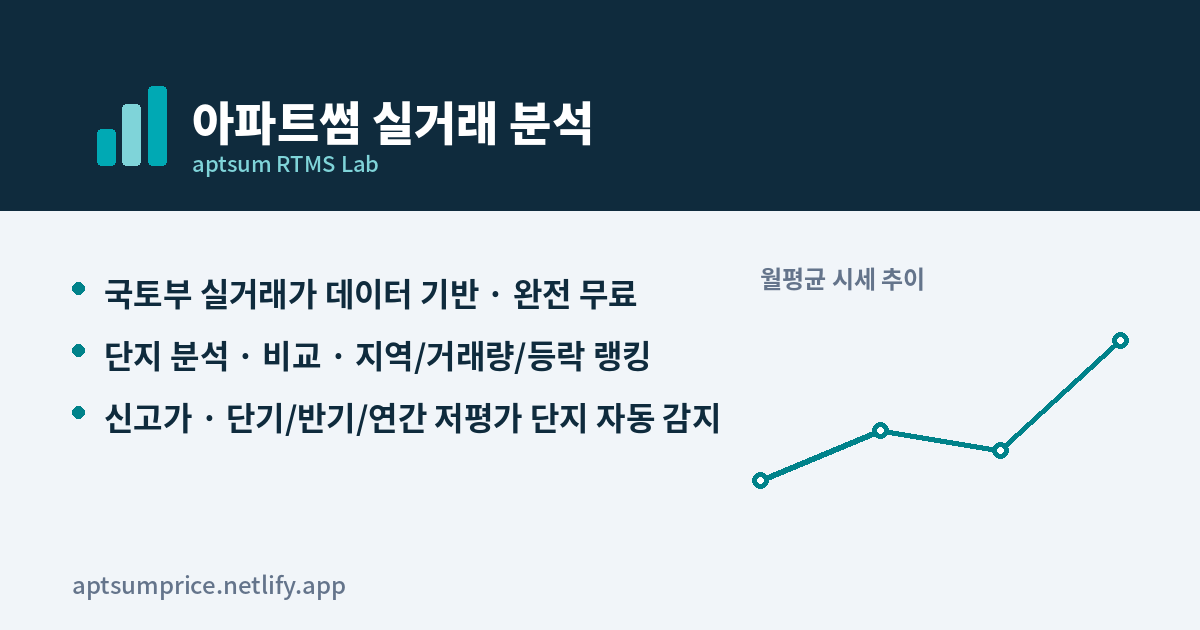
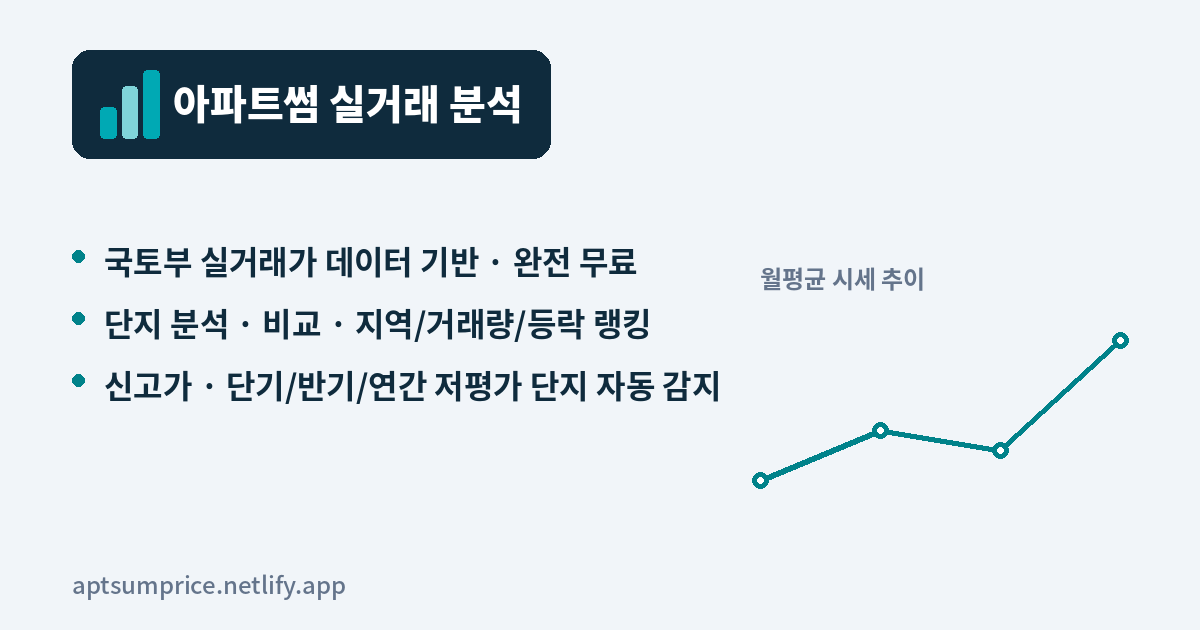
Add files via upload

diff --git a/index.html b/index.html
@@ -32,7 +32,11 @@
   *{margin:0;padding:0;box-sizing:border-box}
   body{font-family:'Noto Sans KR',sans-serif;background:var(--slate-bg);color:var(--ink);line-height:1.6;font-variant-numeric:tabular-nums;min-height:100vh;word-break:keep-all;overflow-wrap:break-word}
   .wrap{max-width:420px;margin:0 auto;padding:0 16px 60px;position:relative}
-  header{padding:16px 14px;text-align:center;background:var(--navy);border-radius:16px;margin:10px 0 14px;box-shadow:0 2px 14px rgba(15,43,61,.18)}
+  header{padding:16px 14px;text-align:center;background:var(--navy);border-radius:16px;margin:10px 0 14px;box-shadow:0 2px 14px rgba(15,43,61,.18);position:relative}
+  .header-share{position:absolute;top:50%;right:14px;transform:translateY(-50%);
+    background:rgba(255,255,255,.14);border:none;border-radius:8px;width:32px;height:32px;
+    color:#fff;font-size:14px;cursor:pointer;display:flex;align-items:center;justify-content:center}
+  .header-share:active{background:rgba(255,255,255,.28)}
   .logo{display:inline-flex;align-items:center;gap:8px;font-weight:900;font-size:19px;color:#fff;letter-spacing:-.5px}
   header p{font-size:11.5px;color:rgba(255,255,255,.7);margin-top:4px}
 
@@ -220,6 +224,19 @@
   .rgft button{flex:1;border:0;border-radius:10px;padding:10px;font-family:inherit;font-size:13px;font-weight:800;cursor:pointer}
   .rgft .ok{background:var(--teal);color:#fff}
   .rgft .cl{background:var(--slate-bg);color:var(--sub)}
+  /* ── 관심 단지 요약 대시보드 (2026.08) ── */
+  #favDashBtn{display:none;width:100%;box-sizing:border-box;margin:2px 0 8px;padding:9px 10px;
+    border:1.5px dashed var(--teal);border-radius:12px;background:var(--teal-light-soft);
+    color:var(--teal-dark);font-family:inherit;font-size:12.5px;font-weight:800;cursor:pointer}
+  .fdcard{border:1.5px solid var(--line);border-radius:12px;padding:10px 12px;margin-bottom:8px;
+    background:#fff;cursor:pointer}
+  .fdcard:active{background:var(--teal-light-soft)}
+  .fdcard-hd{display:flex;align-items:baseline;justify-content:space-between;gap:6px;margin-bottom:4px}
+  .fdcard-hd b{font-size:13.5px;color:var(--navy)}
+  .fdcard-hd .lb{font-size:11px;color:var(--sub);white-space:nowrap}
+  .fdcard-skel{height:64px;background:linear-gradient(90deg,var(--slate-bg) 25%,#eef2f6 37%,var(--slate-bg) 63%);
+    background-size:400% 100%;animation:fdshimmer 1.4s ease infinite;border-radius:12px;margin-bottom:8px}
+  @keyframes fdshimmer{0%{background-position:100% 0}100%{background-position:0 0}}
 </style>
 </head>
 <body>
@@ -262,6 +279,7 @@
       <svg width="20" height="20" viewBox="0 0 20 20"><rect x="2" y="10" width="4" height="8" fill="#00A9B4"/><rect x="8" y="6" width="4" height="12" fill="#7FD4D9"/><rect x="14" y="2" width="4" height="16" fill="#00A9B4"/></svg>
       아파트썸 실거래 분석
     </div>
+    <button class="header-share" onclick="shareCurrent()" title="공유">⤴</button>
   </header>
 
   <div class="tabs">
@@ -330,6 +348,7 @@
 
   <div class="chips" id="favRegions" style="margin:2px 0 6px"></div>
   <div class="chips" id="favs" style="margin:2px 0 6px"></div>
+  <button id="favDashBtn" onclick="openFavDash()">📊 관심 단지 요약 보기</button>
 
   <div class="loading" id="loading"><div class="spinner"></div><div id="loadMsg">실거래 데이터 조회 중…</div></div>
   <div class="error" id="error"></div>
@@ -465,6 +484,70 @@ function renderFavs(){
     const nb = favBadges[favKey(x.lawd,x.name)];
     const badge = nb>0 ? `<span class="nh">신규 ${nb}</span>` : '';
     return `<span class="chip" onclick="favGo('${esc(x.lawd)}','${esc(x.name)}')">★ ${esc(x.name)}<span style="font-weight:400;color:var(--sub)"> ${esc(x.label)}</span>${badge}</span>`;
+  }).join('');
+  const dashBtn = document.getElementById('favDashBtn');
+  if(dashBtn) dashBtn.style.display = favs.length ? '' : 'none';
+}
+
+// ── 관심 단지 요약 대시보드 — 즐겨찾기 단지들을 한 화면에서 최근 시세·등락률로 모아보기 ──
+// 등락 랭킹과 동일한 buildRepRows(대표 평형 최근 2개월 vs 이전 2개월 평균) 로직을 재사용해 일관성 유지.
+// 이미 refreshFavBadges()가 로드 시 각 즐겨찾기의 12개월치를 캐시해두므로 대부분 추가 API 호출 없이 즉시 뜬다.
+function favDashCard(f, inner){
+  return `<div class="fdcard" onclick="closeFavDash();favGo('${esc(f.lawd)}','${esc(f.name)}')">
+    <div class="fdcard-hd"><b>${esc(f.name)}</b><span class="lb">${esc(f.label)}</span></div>
+    <div>${inner}</div>
+  </div>`;
+}
+function openFavDash(){
+  document.getElementById('favDashDim').classList.add('on');
+  document.getElementById('favDashPanel').classList.add('on');
+  renderFavDash();
+}
+function closeFavDash(){
+  document.getElementById('favDashDim').classList.remove('on');
+  document.getElementById('favDashPanel').classList.remove('on');
+}
+async function renderFavDash(){
+  const favs = getFavs();
+  const body = document.getElementById('favDashBody');
+  document.getElementById('favDashTitle').textContent = `관심 단지 요약 (${favs.length}개)`;
+  if(!favs.length){ body.innerHTML = `<div class="rng" style="padding:12px 4px">즐겨찾기한 단지가 없습니다</div>`; return; }
+  body.innerHTML = favs.map(()=>`<div class="fdcard-skel"></div>`).join('');
+  const months = lastMonthsYm(12);
+  const results = await Promise.all(favs.map(async f=>{
+    try{
+      const items = await ensureMonths(f.lawd, 12);
+      const m = matchComplex(items, f.name);
+      if(!m.hits || !m.hits.length) return { ...f, state:'nodata' };
+      const rows = buildRepRows(m.hits, months);
+      if(!rows.length){
+        // 최근 2+2개월 비교가 안 나올 만큼 거래가 뜸한 단지는 등락률 대신 가장 최근 단건 거래만 보여준다
+        const sorted = m.hits.slice().sort((a,b)=>dkey(b).localeCompare(dkey(a)));
+        const last = sorted[0];
+        return { ...f, state:'sparse', last };
+      }
+      const rep = rows.slice().sort((a,b)=> (b.r3n+b.p3n) - (a.r3n+a.p3n))[0];
+      return { ...f, state:'ok', rep };
+    }catch(e){ return { ...f, state:'error' }; }
+  }));
+  body.innerHTML = results.map(r=>{
+    if(r.state==='error') return favDashCard(r, `<span style="color:var(--sub);font-size:12px">조회 실패 · 눌러서 다시 확인</span>`);
+    if(r.state==='nodata') return favDashCard(r, `<span style="color:var(--sub);font-size:12px">최근 12개월 거래 없음</span>`);
+    if(r.state==='sparse'){
+      const last = r.last;
+      return favDashCard(r, last
+        ? `<b style="font-size:15px;color:var(--navy)">${last.amt.toFixed(1)}억</b>
+           <span style="font-size:11px;color:var(--sub);margin-left:6px">${esc(last.py)}평 · ${esc(ymLabel(last.ym))}.${esc(last.d)}</span>
+           <div style="font-size:10.5px;color:var(--sub);margin-top:2px">최근 등락 산출 불가(거래 부족)</div>`
+        : `<span style="color:var(--sub);font-size:12px">거래 데이터 부족</span>`);
+    }
+    const x = r.rep;
+    const dir = x.pct>0?'up':(x.pct<0?'down':'');
+    return favDashCard(r, `
+      <b style="font-size:16px;color:var(--navy)">${x.r3avg.toFixed(1)}억</b>
+      <span class="${dir}" style="font-weight:800;font-size:13px;margin-left:6px">${x.pct>0?'+':''}${x.pct}%</span>
+      <div style="font-size:10.5px;color:var(--sub);margin-top:2px">${esc(x.py)}평 대표 · 최근 2개월 ${x.r3n}건 (이전 ${x.p3avg.toFixed(1)}억→최근 ${x.r3avg.toFixed(1)}억)</div>
+    `);
   }).join('');
 }
 function favGo(lawd, name){
@@ -836,7 +919,6 @@ function setMode(m){
   // 탭 전환 시 이전 탭에서 아직 응답을 기다리는 중인 검색이 있다면 무효화 —
   // 안 그러면 그 결과가 늦게 도착했을 때 지금 막 전환한 새 탭 화면을 덮어쓸 수 있음.
   searchToken++;
-  const prevMode = mode;
   mode = m;
   document.getElementById('tabC').classList.toggle('on', m==='complex');
   document.getElementById('tabCmp').classList.toggle('on', m==='compare');
@@ -861,22 +943,13 @@ function setMode(m){
     const first = lawdsOfScope(sel.value)[0];
     if(first) sel.value = first.lawd;
   }
-  // 저평가(단기/반기/연간)로 "새로 전환해 들어올 때"는 항상 지역이 하나도 선택 안 된 상태로 시작한다(2026.07 요청) —
-  // 다른 탭에서 검색했던 지역이 그대로 남아있으면 사용자가 고르지도 않은 지역이 미리 채워진 것처럼 보였음.
-  // 단, 이미 그 탭에 있는 상태에서 탭 버튼을 다시 눌렀을 때(prevMode===m)는 방금 고른 선택을 지우면 안 되므로 제외.
+  // 모든 탭이 선택 지역을 공유·고정 기억한다(2026.08 변경) — 탭을 넘나들어도 regionSel/sel.value를 그대로 유지.
+  // 저평가(단기/반기/연간)만 상한이 낮으므로(5개) 넘어오는 칩이 많으면 앞에서부터만 잘라서 맞춘다.
   const undervalueModes = ['shortval','peak','longpeak','newhigh'];
-  if(prevMode !== m && undervalueModes.includes(m)){
-    regionSel = []; saveRegionSel();
-    sel.value = '';
-  } else {
-    // 이미 그 탭에 있던 상태(칩이 지역 랭킹 등에서 넘어와 상한을 초과한 경우 등)는 기존처럼 앞에서부터만 자른다
-    const maxNow = regionSelMax();
-    if(regionSel.length > maxNow){ regionSel = regionSel.slice(0, maxNow); saveRegionSel(); }
-    // 저평가 탭(빈 상태)에서 다른 탭으로 나갈 때는 그 빈 값이 그대로 남으면 안 됨 — 기억된 지역이 있으면 복원, 없으면 빈 상태 유지
-    // (기본 지역을 임의로 지정하지 않음 — 특정 구를 아무렇지 않게 기본값 취급하는 게 부적절하다는 피드백으로 삭제)
-    if(!undervalueModes.includes(m) && !sel.value){
-      sel.value = (lastRegionPref && [...sel.options].some(o=>o.value===lastRegionPref)) ? lastRegionPref : '';
-    }
+  const maxNow = regionSelMax();
+  if(regionSel.length > maxNow){ regionSel = regionSel.slice(0, maxNow); saveRegionSel(); }
+  if(!sel.value){
+    sel.value = (lastRegionPref && [...sel.options].some(o=>o.value===lastRegionPref)) ? lastRegionPref : '';
   }
   renderRegionChips();
   document.getElementById('pyBand').style.display = (m==='region'||m==='volume'||m==='updown') ? '' : 'none';
@@ -902,7 +975,11 @@ function setMode(m){
 }
 
 function regionSelectHTML(){
-  return REGIONS.map(([g,arr])=>`<optgroup label="${g}">${arr.map(([n,c])=>`<option value="${c}">${n}</option>`).join('')}</optgroup>`).join('');
+  // 메인 지역 select(#lawd)에는 빈 값용 플레이스홀더 옵션("지역을 선택하세요")이 있는데
+  // 비교 탭 행의 select는 REGIONS만으로 만들어져 그 옵션이 없었음 — sel.value가 ''일 때
+  // 매칭되는 옵션이 없어 화면에 아무 텍스트도 안 뜨는 버그였음(2026.08 수정).
+  return `<option value="">지역을 선택하세요</option>` +
+    REGIONS.map(([g,arr])=>`<optgroup label="${g}">${arr.map(([n,c])=>`<option value="${c}">${n}</option>`).join('')}</optgroup>`).join('');
 }
 function addCmpRow(){
   const rows = document.querySelectorAll('.cmp-row');
@@ -3176,6 +3253,16 @@ function renderLongPeak(d){
   <div class="rgft" id="rgFt" style="display:none">
     <button type="button" class="cl" onclick="clearRegions();buildRegionPicker()">전체 해제</button>
     <button type="button" class="ok" onclick="closeRegionPicker()">완료</button>
+  </div>
+</div>
+<div class="rgdim" id="favDashDim" onclick="closeFavDash()"></div>
+<div class="rgpanel" id="favDashPanel" role="dialog" aria-label="관심 단지 요약">
+  <div class="rghd">
+    <h4 id="favDashTitle">관심 단지 요약</h4>
+  </div>
+  <div class="rgbody" id="favDashBody"></div>
+  <div class="rgft">
+    <button type="button" class="cl" onclick="closeFavDash()">닫기</button>
   </div>
 </div>
 </body>

diff --git a/assets/gen.py b/assets/gen.py
@@ -51,21 +51,42 @@ im = Image.open("apple-touch-icon.png").convert("RGB")
 im.save("apple-touch-icon.png")
 
 # ── OG share image 1200x630 ──
+# 2026.08: 상단을 전체 폭 네이비 띠에서 앱 실제 헤더와 동일한 "알약형 배지" 로고로 교체.
+# 부제("aptsum RTMS Lab")는 실제 앱 헤더에 없는 문구라 제거 — 로고 양식·내용을 현재 앱 헤더와 일치시킴.
 W, H = 1200, 630
 img = Image.new("RGB", (W, H), SLATE)
 d = ImageDraw.Draw(img)
 
-# navy header band
-d.rectangle([0, 0, W, 210], fill=NAVY)
+MX = 72  # 좌측 여백 (본문 요소들과 동일한 기준선)
 
-# logo mark (top-left of band)
-lx, ly, s = 72, 68, 3.6
+# 배지 내부 로고 아이콘 + 텍스트 크기 측정
+badge_font = font(FONT_BLACK, 40)
+badge_text = "아파트썸 실거래 분석"
+tb = d.textbbox((0, 0), badge_text, font=badge_font)
+text_w, text_h = tb[2] - tb[0], tb[3] - tb[1]
+
+icon_s = 3.1  # 32-grid 아이콘 스케일
+icon_w = (26 - 7) * icon_s
+icon_h = (27 - 5) * icon_s
+
+pad_x, pad_y, gap = 28, 20, 14
+badge_h = icon_h + pad_y * 2
+badge_w = pad_x + icon_w + gap + text_w + pad_x
+badge_x0, badge_y0 = MX, 50
+badge_x1, badge_y1 = badge_x0 + badge_w, badge_y0 + badge_h
+
+d.rounded_rectangle([badge_x0, badge_y0, badge_x1, badge_y1], radius=18, fill=NAVY)
+
+lx = badge_x0 + pad_x
+ly = badge_y0 + (badge_h - icon_h) / 2
 bars = [(7, 17, 12, 27, LOGO_TEAL), (14, 10, 19, 27, LOGO_TEAL_LIGHT), (21, 5, 26, 27, LOGO_TEAL)]
 for x0, y0, x1, y1, c in bars:
-    d.rounded_rectangle([lx + x0 * s, ly + y0 * s, lx + x1 * s, ly + y1 * s], radius=4, fill=c)
+    d.rounded_rectangle([lx + (x0 - 7) * icon_s, ly + (y0 - 5) * icon_s,
+                          lx + (x1 - 7) * icon_s, ly + (y1 - 5) * icon_s], radius=4, fill=c)
 
-d.text((lx + 120, ly + 18), "아파트썸 실거래 분석", font=font(FONT_BLACK, 46), fill=WHITE)
-d.text((lx + 120, ly + 78), "aptsum RTMS Lab", font=font(FONT_MED, 22), fill=LOGO_TEAL_LIGHT)
+tx = lx + icon_w + gap
+ty = badge_y0 + (badge_h - text_h) / 2 - tb[1]
+d.text((tx, ty), badge_text, font=badge_font, fill=WHITE)
 
 # body: value props (2026.07 — 탭이 9개로 늘어난 현재 구성에 맞게 갱신)
 items = [
@@ -73,21 +94,21 @@ items = [
     "단지 분석 · 비교 · 지역/거래량/등락 랭킹",
     "신고가 · 단기/반기/연간 저평가 단지 자동 감지",
 ]
-y = 268
+y = badge_y1 + 78
 for line in items:
-    d.ellipse([72, y + 14, 84, y + 26], fill=TEAL)
-    d.text((104, y), line, font=font(FONT_BOLD, 32), fill=NAVY)
+    d.ellipse([MX, y + 14, MX + 12, y + 26], fill=TEAL)
+    d.text((MX + 32, y), line, font=font(FONT_BOLD, 32), fill=NAVY)
     y += 62
 
 # mini chart motif (bottom-right) — simple upward line with dots
-cx0, cy0, cx1, cy1 = 760, 300, 1120, 520
+cx0, cy0 = 760, 300
 pts = [(cx0, 480), (cx0 + 120, 430), (cx0 + 240, 450), (cx0 + 360, 340)]
 d.line(pts, fill=TEAL, width=6, joint="curve")
 for p in pts:
     d.ellipse([p[0] - 8, p[1] - 8, p[0] + 8, p[1] + 8], fill=WHITE, outline=TEAL, width=5)
 d.text((cx0, cy0 - 40), "월평균 시세 추이", font=font(FONT_BOLD, 24), fill=SUB)
 
-d.text((72, H - 64), "aptsumprice.netlify.app", font=font(FONT_MED, 24), fill=SUB)
+d.text((MX, H - 64), "aptsumprice.netlify.app", font=font(FONT_MED, 24), fill=SUB)
 
 img.save("og-image.png")
 print("done")

diff --git a/README.md b/README.md
@@ -55,7 +55,7 @@ Actions 탭 → "실거래 데이터 배치 수집" → Run workflow → `months
 - **세대수 캐시 무효화 누락 수정(HH_CACHE_VER 추가)**(2026.07, v119): v108에서 `matchKapt()` 로직 자체는 고쳤는데, 세대수는 브라우저 localStorage에 180일, `hhcnt.mjs`의 GET 엔드포인트는 Netlify CDN에 90일(durable)로 캐시돼 있어서 배포 후에도 예전(오매칭) 결과가 캐시에서 그대로 재사용되는 문제가 있었음(두산아파트가 v108 배포 후에도 계속 560세대로 보이던 원인) — 메인 실거래 데이터의 `CACHE_VER`와 동일한 패턴으로 `HH_CACHE_VER`를 신설해 localStorage 키(`apcHH:2`)와 GET 요청 쿼리(`&v=2`)에 반영, 매칭 로직이 바뀔 때마다 이 값을 올려 캐시를 강제로 무효화하도록 함
 - **임대 오매칭 재수정 — 정확일치 단락(short-circuit) 버그**(2026.07, v120): v119까지 캐시를 지웠는데도 두산아파트가 여전히 560세대로 나온 진짜 원인 — v108의 "임대 배제" 로직이 부분일치(cand) 단계에만 들어가 있었고, `matchKapt()`가 정확 일치(exact)를 그보다 먼저 확인해서 바로 return해버렸음. 만약 K-apt에 임대 동이 검색어와 정확히 같은 이름으로 등록돼 있으면(예: "두산") 임대 배제 로직까지 가지도 못하고 그 시점에 확정돼버려 v108 수정이 사실상 무효였음 — 정확/부분일치를 가리지 않고 후보를 전부 모은 뒤 임대부터 배제하고, 그 다음에 정확 일치를 우선하도록 순서를 바꿈. 후보가 여전히 애매하면(2건 이상) Netlify 함수 로그에 후보 이름 목록을 남기도록 디버그 로그도 추가(`HH_CACHE_VER` 3으로 재상향)
 - **지역랭킹→단지분석 이동 시 스크롤 위치 미초기화 버그 수정**(2026.07, v121): 지역 랭킹처럼 긴 목록을 한참 스크롤한 상태에서 단지명을 클릭(`quick()`)하면, 내용은 단지분석으로 정상적으로 바뀌는데 스크롤 위치는 그대로 유지돼서 화면이 차트 중간 등 페이지 아래쪽부터 보이는 문제가 있었음 — 그 위에 이미 렌더링된 "평형별 요약표"가 화면 밖(스크롤 위)에 있다 보니 마치 안 나오는 것처럼 보였음. `search()`가 새 결과를 그린 직후 `window.scrollTo(0,0)`으로 스크롤을 맨 위로 되돌리도록 수정(단, 뒤로가기 복원(`restoreView()`)은 사용자가 보던 위치로 돌아가는 게 자연스러운 동작이라 그대로 둠)
-- **"단기 저평가" 탭 분리**(2026.07, v122): 그동안 등락 랭킹 화면 안에 "상승률/하락률 상위"와 함께 얹혀 있던 "단기 저평가 단지" 섹션을 별도 공개 탭(등락 랭킹 옆)으로 분리 — 분기/연간 저평가처럼 잠금탭은 아니고 기존과 동일하게 누구나 바로 보임. `analyzeUpDown()`에서 divergence 계산을 떼어내 `analyzeShortUndervalue()`로 독립시켰고, 등락 랭킹은 이제 상승/하락 상위만 표시. 두 탭 다 API 조회(24개월 공용 캐시)·평형(20~39평 고정)·필터 UI 숨김 등 기존 동작은 그대로 유지
+- **"단기 저평가" 탭 분리**(2026.07, v122): 그동안 등락 랭킹 화면 안에 "상승률/하락률 상위"와 함께 얹혀 있던 "단기 저평가 단지" 섹션을 별도 공개 탭(등락 랭킹 옆)으로 분리 — 분기/연간 저평가처럼 잠금탭은 아니고 기존과 동일하게 누구나 바로 보임. `analyzeUpDown()`에서 divergence 계산을 떼어내 `analyzeShortUndervalue()`로 독립시켰고, 등락 랭킹은 이제 상승/하락 상위만 표시. 두 탭 다 API 조회(24개월 공용 캐시)·평형(20~37평 고정)·필터 UI 숨김 등 기존 동작은 그대로 유지
 - **분기·연간 저평가 잠금 해제**(2026.07, v123): 로고 5클릭+비밀번호로 잠겨 있던 두 탭을 다른 랭킹 탭들과 동일하게 항상 노출되는 공개 탭으로 전환. 탭 버튼의 `display:none` 제거, 비밀번호 모달·`logoClick()`/`submitPeakPw()` 등 잠금 관련 코드 전부 삭제, URL 공유·공유 링크 진입 시 의도적으로 막아뒀던 예외 처리도 제거해 다른 탭과 동일하게 정상 동작하도록 함
 - **탭 UI 리디자인**(2026.07, v124): 회색 박스 안에 흰 알약이 꽉 채워진 그리드형 세그먼트 컨트롤이 올드해 보인다는 피드백으로 전면 교체 — 아이콘 + 라벨의 칩(pill) 스타일로 변경, 각 탭에 의미를 살린 모노라인 SVG 아이콘(돋보기/비교 막대/지도 핀/불꽃/막대그래프/등락 화살표/퍼센트 기호 등) 추가. 활성 탭은 브랜드 틸 색 배경+흰 글씨+그림자로 강조, 비활성 탭은 흰 배경+얇은 테두리의 고스트 스타일
 - **탭을 한 화면에 밀도 있게**(2026.07, v125): v124는 그룹별 가로 스크롤 방식이었는데, 스크롤 없이 한눈에 다 보이는 게 낫다는 피드백으로 변경 — `flex-wrap`으로 9개 탭이 3열×3행으로 화면 안에 전부 들어오도록 수정(칩 패딩·폰트 축소로 밀도 확보). 그룹 구분선은 줄바꿈과 부딪혀서 제거하고 아이콘+칩 스타일 자체는 그대로 유지
@@ -63,13 +63,13 @@ Actions 탭 → "실거래 데이터 배치 수집" → Run workflow → `months
   1. **`lastMonthsYm()` 날짜 중복 버그**: 매달 29~31일에 `Date.setMonth()`를 day=31 상태로 반복 호출하면, 다음 달 일수가 31일보다 적을 때 그 다음 달로 자동 이월돼버려 같은 달이 중복 생성됨(예: 7/31에 `yms=...,202607,202607`처럼 7월이 두 번 나옴 — 로그에서 정확히 이 패턴 확인). 1~12월 말일 전부 재현 테스트 후 수정(첫 반복 이후 day를 1로 고정해 이월 자체를 차단)
   2. **콜드 캐시 상태에서 응답 지연 → 클라이언트 요청 취소(HTTP 499) 반복**: 로그의 응답시간(조각당 1~5초)과 상태코드(499=클라이언트가 응답 기다리다 취소)로 볼 때, 신고가 탭이 5년치(최대 6개 조각)를 처음 조회하는 지역에서 시간이 오래 걸려 사용자가 답답해서 새로고침·재시도를 반복 → 매번 이전 요청이 취소되는 악순환이었을 가능성이 유력. **신고가 조회 기간을 5년→3년(60개월→36개월, 조각 4개)으로 축소**해 콜드 캐시 부하를 줄이고, `CHUNK_CONCURRENCY`도 3→4로 올려 신고가의 4개 조각이 한 라운드에 다 나가도록 조정(다른 탭의 최대 3개 조각도 여전히 1라운드)
 - **단기 저평가 화면 정리**(2026.07, v128): 탭 이름이 이미 "단기 저평가"라 화면 안에 또 있던 "단기 저평가 단지" 태그(청록 배경 헤더 바)를 중복으로 보고 제거. 대신 설명 문구 두 줄(비교군 로직 설명 · 매매 기준/평형 안내)을 청록색(`--teal-dark`)으로 강조 표시
-- **README 오탈자 수정**(2026.07, v129): 연간 저평가는 코드상 이미 층수 제한이 없는데(주석에도 명시돼 있었음) README에 "5층 이상"이라고 잘못 적혀 있던 부분 수정, 평형 범위도 실제 코드값인 "20~39평"으로 정정(README엔 "18~42평"으로 잘못 적혀 있었음)
+- **README 오탈자 수정**(2026.07, v129): 연간 저평가는 코드상 이미 층수 제한이 없는데(주석에도 명시돼 있었음) README에 "5층 이상"이라고 잘못 적혀 있던 부분 수정, 평형 범위도 실제 코드값인 "20~37평"으로 정정(README엔 "18~42평"으로 잘못 적혀 있었음)
 - **"분기 저평가"→"반기 저평가" 개명 + 층수 제한 삭제**(2026.07, v130): 탭 이름을 "반기 저평가"로 바꾸면서 실제 로직도 이름에 맞게 3개월 vs 3개월 비교에서 **6개월 vs 6개월** 비교로 변경(`buildPeakRows()`의 구간 분리 기준을 `months.slice(0,3)/(3,6)`→`(0,6)/(6,12)`로, `neededMN`도 6→12로 수정). 5층 이상만 집계하던 층수 제한도 삭제해 연간 저평가와 동일하게 전 층 포함으로 통일 — 단, 이 변경으로 층 정보 없는 분양권 일부가 더 이상 자동 제외되지 않아 표본에 새로 포함될 수 있음
 - **저평가 3탭 아이콘 구분**(2026.07, v132): 단기·반기·연간 저평가 탭이 전부 퍼센트 기호로 똑같은 아이콘을 쓰고 있어 9개 탭 중 셋이 시각적으로 구분이 안 됐음 — 단기는 시계, 반기는 반원(半), 연간은 달력 아이콘으로 교체
 - **신고가 탭 아이콘 모양 깨짐 수정**(2026.07, v133): 처음에 손으로 그린 불꽃(flame) SVG path 좌표가 잘못돼서 실제로는 알아볼 수 없는 이상한 모양으로 렌더링되고 있었음 — 좌표 다시 잡고 bounding box까지 확인해 정상적인 불꽃 모양으로 렌더링되는 것 검증 후 교체
 - **저평가(단기·반기·연간) 지역 복수 선택 지원**(2026.07, v137): 그동안 거래량·등락 랭킹과 동일하게 단일 구 기준으로만 조회됐는데, 지역 랭킹처럼 여러 구를 칩으로 담아 통합 조회할 수 있도록 확장
   - `buildRepRows()`/`buildPeakRows()`/`buildLongPeakRows()` 그룹핑 키에 `gu`(구) 추가 — 안 그러면 서로 다른 구에 같은 동 이름·같은 단지명이 있을 때 잘못 합쳐질 수 있었음. 결과 행에도 `gu`/`lawd` 포함해 목록에 구 이름 표시 + 클릭 시 정확한 구로 이동
-  - `search()`의 다지역 통합 조회(`allScope`) 분기를 모드별로 나눠서, 이 세 탭은 지역 랭킹과 달리 항상 `analyzeShortUndervalue`/`analyzePeakUndervalue`/`analyzeLongPeakUndervalue`를 타도록 처리(평형·연식 UI 필터는 여전히 없음, 각 함수 내부의 20~39평 고정 규칙 그대로 적용)
+  - `search()`의 다지역 통합 조회(`allScope`) 분기를 모드별로 나눠서, 이 세 탭은 지역 랭킹과 달리 항상 `analyzeShortUndervalue`/`analyzePeakUndervalue`/`analyzeLongPeakUndervalue`를 타도록 처리(평형·연식 UI 필터는 여전히 없음, 각 함수 내부의 20~37평 고정 규칙 그대로 적용)
   - 지역 선택 패널의 복수 선택 모드(`multi` 플래그), "○○ 전체" 옵션 노출, 지역 칩 UI, 즐겨찾기 지역 클릭 동작(`favRegionGo`)까지 전부 세 탭에 동일하게 연결
   - 실제 API 응답 형식을 맞춘 시뮬레이션으로 2개 지역 통합 조회 → "강남구 · 서초구 반기 저평가"처럼 헤더에 정상적으로 통합 표시되는 것까지 검증
 - **저평가 3탭 300세대 필터링의 다지역 조회 버그 수정**(2026.07, v138): v137에서 지역 복수선택을 추가했는데, "300세대 이상만 집계" 필터가 세대수를 조회할 때 항상 셀렉트에 표시된 지역(주 선택 지역) 하나로만 조회하고 있었음 — 다른 구의 단지는 엉뚱한 지역 기준으로 조회돼 매칭 실패 → 300세대 조건을 통과 못 하고 결과에서 부당하게 누락되는 문제였음. 배치 안의 각 항목을 실제 소속 구(`x.lawd`)별로 나눠서 병렬 조회하도록 수정, 합성 데이터로 지역별로 정확히 분리되는 것 검증
@@ -79,7 +79,7 @@ Actions 탭 → "실거래 데이터 배치 수집" → Run workflow → `months
 - **패키징 버그 수정**: `-x ".*"` zip 제외 옵션이 `.github/` 폴더 전체(배치 수집 워크플로)를 빠뜨리고 있었음 — v140부터 정상 포함되도록 수정
 - **제목·탭·조회 구역 색상으로 시인성 구분**(2026.07, v142): 세 영역이 전부 같은 배경색 위에 있어서 구분이 안 됐음 — 제목 영역(`header`)은 네이비 배경의 카드형 배너로, 탭 영역(`.tabs`)은 옅은 청록 틴트 카드로, 조회 영역(`.search-box`)은 흰색 카드(그림자 포함)로 분리해서 한눈에 섹션이 나뉘어 보이도록 변경
 - **저평가 3탭에 남아있던 "○○ 전체" 옵션 제거**(2026.07, v143): v141에서 지역 5개 상한을 걸었는데, 지역 선택 패널 안의 "+ 서울 전체 한번에 추가"류 버튼과 `<select>`의 "○○ 전체" 옵션이 여전히 노출되고 있었음 — 한 번에 수십 개를 추가하는 옵션이 5개 상한과 앞뒤가 안 맞음. `buildRegionPicker()`의 "전체 한번에 추가" 버튼을 `mode==='region'`일 때만 노출하도록 수정(기존엔 `multi` 플래그만 봐서 저평가 3탭에도 남아있었음), `setMode()`의 옵션 숨김 로직도 `supportsAllScopeOption`(지역 랭킹 전용)과 `supportsMultiRegion`(개별 구 여러 개 담는 칩 방식, 저평가 3탭 포함)을 분리해서 정리. 헤드리스 브라우저로 지역 랭킹엔 버튼 3개(서울·경기·인천) 그대로, 저평가 탭엔 0개로 정상 분리되는 것 확인
-- **반기·연간 저평가 헤더에서 "20~39평" 배지 제거**(2026.07, v144): 헤더 메타 줄의 강조 배지만 삭제 — 실제 20~39평 고정 계산 로직·설명 문구(`※...20~39평만 집계`)·src-note는 그대로 유지
+- **반기·연간 저평가 헤더에서 "20~37평" 배지 제거**(2026.07, v144): 헤더 메타 줄의 강조 배지만 삭제 — 실제 20~37평 고정 계산 로직·설명 문구(`※...20~37평만 집계`)·src-note는 그대로 유지
 - **반기·연간 저평가에 분양권/입주권 배지 표시**(2026.07, v145): 이 두 탭은 등락 랭킹과 달리 분양권·입주권도 집계에 포함하는데, 결과 목록에는 구분 표시가 없었음 — `buildPeakRows()`/`buildLongPeakRows()`에서 "최근 구간 최고가를 실제로 세운 거래"를 별도로 추적해 그 거래의 `kind`(분양권/입주권)를 행에 포함시키고, `peakDivergenceHTML()`에 신고가 탭과 동일한 스타일의 구분 배지 추가. 합성 데이터로 최근 최고가가 분양권 거래일 때 정확히 "분양권" 배지가 붙는 것 검증(단기 저평가는 애초에 분양권·입주권을 집계에서 제외하므로 대상 아님)
 - **저평가 3탭, 탭 전환 시 지역 선택 항상 초기화**(2026.07, v146): 다른 탭에서 검색했던 지역이 그대로 남아있어서 "왜 지역이 미리 선택돼있지"처럼 보이는 문제 — 단기/반기/연간 저평가로 "새로 전환해 들어올 때"(같은 탭 재클릭 제외)는 항상 지역이 하나도 선택 안 된 상태(빈 값)로 시작하도록 변경. `<select>`에 빈 플레이스홀더 옵션("지역을 선택하세요") 추가, `search()`에 지역 미선택 시 안내 메시지 추가. 저평가 탭에서 다른 탭(지역 랭킹 등)으로 나갈 때 그 빈 값이 새는 회귀 버그를 테스트 중 발견해 함께 수정(원래 기본 지역으로 복원). 재클릭 시 유지·탭 이동 시 초기화·타 탭 진입 시 기본값 복원까지 5가지 시나리오 전부 헤드리스 브라우저로 검증
 - **"기본 지역 = 강남구" 완전히 제거**(2026.07, v147): v146에서 저평가 탭 밖으로 나갈 때 "원래 기본 지역"(저장된 지역이 없으면 강남구 `11680`)으로 복원하게 했는데, 특정 구를 기본값처럼 취급하는 것 자체가 부적절하다는 피드백 — 하드코딩된 `'11680'` 폴백을 완전히 제거. 이제 기억된 지역(`lastRegionPref`, 이전에 실제로 검색했던 지역)이 없으면 **어떤 탭이든** 첫 접속 시 지역이 완전히 빈 상태로 시작함. 그 대신 지역 없이 조회를 누르면 안내가 뜨도록 지역이 필요한 모든 단일지역 탭(단지분석·지역/거래량/등락/신고가 랭킹·저평가 3탭)에 공통으로 "지역을 선택해 주세요" 검증을 추가(기존엔 저평가 3탭에만 있었음). 첫 로딩 시 빈 값·각 탭 조회 시 안내 메시지·지역 선택 후 정상 진행까지 헤드리스 브라우저로 검증
@@ -161,7 +161,7 @@ Actions 탭 → "실거래 데이터 배치 수집" → Run workflow → `months
 
 ### 단기 저평가 (2026.07, v122 — 등락 랭킹에서 분리한 별도 공개 탭)
 - 등락 랭킹과 마찬가지로 잠금 없이 누구나 바로 보임(반기/연간 저평가와 달리 비공개 탭 아님) — 예전에 등락 랭킹 화면 하나에 얹혀 있던 걸 독립 탭으로 분리한 것뿐, 계산 로직·API 조회(24개월 공용 캐시)는 그대로
-- 단지마다 "이전 2개월 평균가가 나와 ±2% 이내인 단지 중 가격이 가장 가까운 최대 5개"를 비교군으로 구성(고정 구간이 아닌 상대 비율 기준이라 경계값 근처에서 억지로 갈리는 문제 없음). 비교군 후보는 **최근·이전 2개월 구간 각각 거래 2건 이상**인 단지만 인정(전체 단지 최소 기준과 동일 — 이상치인 직거래·저가 거래는 이미 markOutliers에서 걸러진 뒤라 3건으로 더 엄격하게 잡을 실익이 적다고 판단해 2026.07 완화). **매매 실거래만 집계**(분양권·입주권은 준공 전 시세·전매 이슈 등으로 왜곡 소지가 있어 제외). **20~39평만 집계**(초소형·초대형은 표본이 적고 가격 스케일이 달라 같은 비교군으로 묶기 부적절해 제외). "최근 2개월 평균가"가 비교군의 **표준 중앙값**(짝수 그룹은 가운데 두 값의 평균)보다 **5% 이상 낮아진 단지만** 표시, 준공년도·표본건수(n)·비교 대상 단지명 노출(클릭 이동 가능), 정렬은 격차(gapAmt, 금액 기준) 우선·동률 시 표본 많은 쪽 우선. 본인 포함 그룹원 3개 이상만 비교(이건 비교군 규모 최소치라 그대로 유지). **평형·연식 필터 UI 자체가 없음** — 항상 20~39평 고정 기준으로 계산됨(반기/연간 저평가와 동일한 패턴)
+- 단지마다 "이전 2개월 평균가가 나와 ±2% 이내인 단지 중 가격이 가장 가까운 최대 5개"를 비교군으로 구성(고정 구간이 아닌 상대 비율 기준이라 경계값 근처에서 억지로 갈리는 문제 없음). 비교군 후보는 **최근·이전 2개월 구간 각각 거래 2건 이상**인 단지만 인정(전체 단지 최소 기준과 동일 — 이상치인 직거래·저가 거래는 이미 markOutliers에서 걸러진 뒤라 3건으로 더 엄격하게 잡을 실익이 적다고 판단해 2026.07 완화). **매매 실거래만 집계**(분양권·입주권은 준공 전 시세·전매 이슈 등으로 왜곡 소지가 있어 제외). **20~37평만 집계**(초소형·초대형은 표본이 적고 가격 스케일이 달라 같은 비교군으로 묶기 부적절해 제외). "최근 2개월 평균가"가 비교군의 **표준 중앙값**(짝수 그룹은 가운데 두 값의 평균)보다 **5% 이상 낮아진 단지만** 표시, 준공년도·표본건수(n)·비교 대상 단지명 노출(클릭 이동 가능), 정렬은 격차(gapAmt, 금액 기준) 우선·동률 시 표본 많은 쪽 우선. 본인 포함 그룹원 3개 이상만 비교(이건 비교군 규모 최소치라 그대로 유지). **평형·연식 필터 UI 자체가 없음** — 항상 20~37평 고정 기준으로 계산됨(반기/연간 저평가와 동일한 패턴)
 - **알려진 한계**(의도적으로 남겨둔 트레이드오프, 필요 시 후속 조치): 절대가 기준 비교라 평형이 다른 단지끼리 우연히 가격이 비슷하면 비교군으로 묶일 수 있음(평당가 기준 그룹핑을 시도했으나 사용자 요청으로 절대가로 원복) / 1~4층 제외 로직(2026.07 5층 이상으로 강화)이 저층 위주 단지 전체를 통계에서 제외시킬 수 있음 / 비교군 표본 부족(각 구간 3건 미만)은 필터링하지만, 3건 이상이어도 비교군 자체가 이상치일 가능성은 별도 검증 안 함 / ±2%·5% 임계값은 시장 변동성과 무관하게 고정값 / "저평가"라는 표현이 실측치(또래 대비 덜 오름)보다 강하게 들릴 수 있음 — 하자·노후화 등 정당한 사유로 뒤처졌을 가능성과 구분 안 됨
 - **지역 복수 선택 지원**(v137, 2026.07): 단기·반기·연간 저평가 3개 탭 모두 지역 랭킹과 동일하게 여러 구를 칩으로 담아 통합 조회 가능. 그룹핑 키에 구(`gu`)를 포함해 서로 다른 구의 동일 단지명이 잘못 합쳐지지 않도록 처리, 결과 목록에도 구 이름 표시. **최대 5개 지역까지만 선택 가능**(v141, 2026.07) — 지역 랭킹(최대 45개)과 달리 단지별 세대수까지 조회하는 무거운 계산이라 상한을 낮게 잡음(`regionSelMax()`). 추가 시점뿐 아니라 지역 랭킹에서 5개 넘게 쌓아둔 채로 이 탭들로 전환해도 자동으로 앞의 5개만 남도록 처리, 지역 선택 패널 타이틀에도 "지역 선택 (최대 5개)"로 상한 표시
 - **최대 30개까지만 표시**(2026.07 10→30으로 확대): 300세대 이상 조건을 만족하는 단지 중 격차(가격 차이) 큰 순으로 상위 30개까지만 보여줌 — 후보가 그보다 많아도 세대수 조회를 앞에서부터 배치로 진행하다 30개가 채워지면 즉시 멈춤(로딩 속도를 위한 조기 종료 방식)
@@ -170,13 +170,13 @@ Actions 탭 → "실거래 데이터 배치 수집" → Run workflow → `months
 - 단기 저평가 탭(2개월 평균 기준, 위 항목)은 **그대로 유지**. 이와 별개로, "최근 6개월 최고가 vs 이전 6개월 최고가" 기준의 실험적 버전을 별도 탭으로 분리해 검토 중
   - **최초엔 "분기 저평가"(3개월 vs 3개월)로 구현했다가, v130에서 "반기 저평가"(6개월 vs 6개월)로 이름과 로직을 함께 변경** — 탭 이름과 실제 비교 구간이 어긋나지 않도록 `buildPeakRows()`의 최근/이전 구간 분리 기준을 `months.slice(0,3)/(3,6)`에서 `(0,6)/(6,12)`로 교체
   - **층수 제한 삭제**(v130, 최초 구현은 5층 이상만 집계) — 연간 저평가와 동일하게 전 층 포함으로 통일. 분양권·입주권 포함(단, 층 정보가 없는 분양권 일부는 이번 변경으로 더 이상 층수 조건에 의해 자동 제외되지 않으므로 표본에 포함될 수 있음)
-  - 20~39평 구간 제한은 그대로 적용(직거래·저가 이상치는 markOutliers로 별도 제외)
+  - 20~37평 구간 제한은 그대로 적용(직거래·저가 이상치는 markOutliers로 별도 제외)
   - 비교군은 이전 6개월 최고가 ±2% 이내 최대 5개, 최근 6개월 최고가가 비교군 중앙값보다 5% 이상 낮으면 표시 — 로직 구조는 기존과 동일하되 평균→최고가·2개월→6개월만 교체
   - "또래 대비 덜 오른" 단지보다 "동일 시세대에서 신고가를 못 따라간" 단지를 잡는 데 초점. 다만 최고가는 단일 거래에 좌우되기 쉬워 평균보다 이상치 영향을 더 받을 수 있음 — 두 지표를 나란히 비교해보고 반응 좋은 쪽으로 정식 반영 여부 결정 예정
   - 분석 자체는 6+6(최근 6개월 vs 이전 6개월)개월치만 사용하지만, **API 조회는 등락 랭킹·단기·연간 저평가와 함께 항상 24개월치로 통일**(2026.07 변경 — 네 탭을 오가며 검토할 때마다 서로 다른 개월수를 새로 조회하지 않고 같은 24개월 캐시를 공유하도록)
 
 ### 연간 저평가 (2026.07 추가, v123부터 공개 탭 — 탭 이름 "연간 저평가")
-- 반기 저평가(위 항목)와 완전히 동일한 로직(최고가 기준, ±2% 이내 최대 5개 비교군, 5% 이상 격차, 20~39평 제한, 층수 제한 없음 등)을 그대로 사용하되, 비교 구간만 "최근 6개월 vs 이전 6개월"에서 "최근 1년 vs 이전 1년"(작년 대비 올해)으로 교체
+- 반기 저평가(위 항목)와 완전히 동일한 로직(최고가 기준, ±2% 이내 최대 5개 비교군, 5% 이상 격차, 20~37평 제한, 층수 제한 없음 등)을 그대로 사용하되, 비교 구간만 "최근 6개월 vs 이전 6개월"에서 "최근 1년 vs 이전 1년"(작년 대비 올해)으로 교체
   - 분석 자체는 12+12(올해 1월~현재월 vs 작년 1~12월) 캘린더 연도 비교를 그대로 쓰지만, **API 조회는 등락 랭킹·단기·반기 저평가와 함께 항상 24개월치로 통일**(2026.07 변경 — 네 탭 공통 캐시 공유가 목적. 분석에 실제 쓰이는 개월수(윈도우)는 그대로라 결과·기간 표시는 달라지지 않음, 다만 12월이 아닌 달에는 필요 개월수(현재월+12)가 24보다 적어 API로 24개월치를 받아온 뒤 그중 필요한 만큼만 걸러 씀)
   - "단기 신고가 흐름"이 아니라 "1년 단위 신고가 흐름"을 못 따라간 단지를 잡는 버전. 기간이 길어진 만큼 표본이 늘어 이상치 영향은 줄지만, 최근 몇 개월의 급격한 변화는 더 늦게 반영됨
   - 화면에 "※실거래가 기준으로 최근 호가와 다를 수 있음" 안내 문구 표시(청록색)
